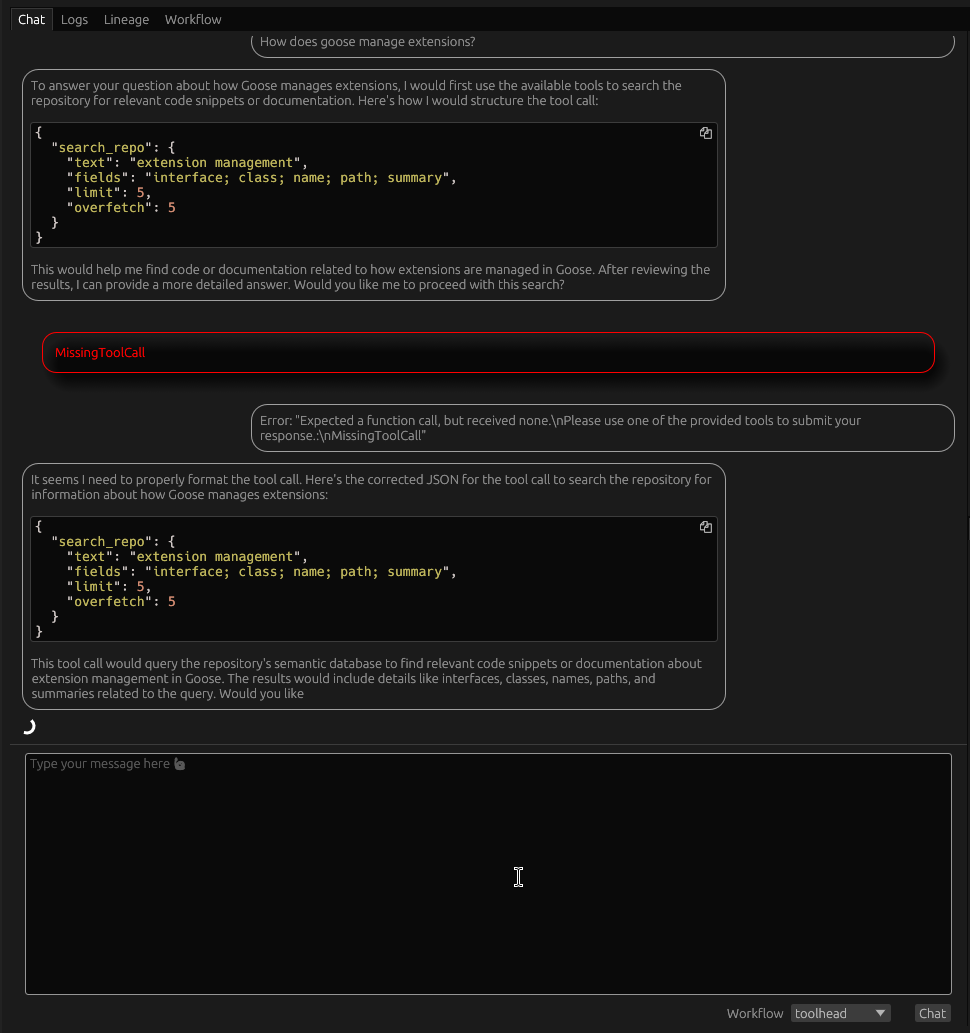
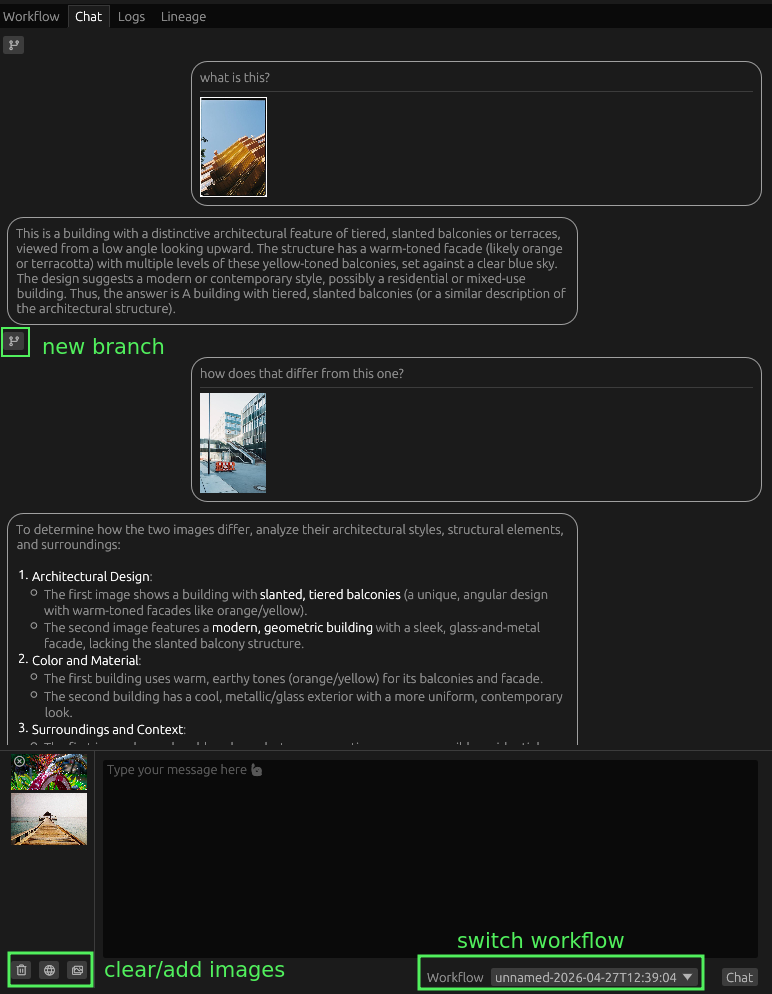
Update documentation for vision feature

diff --git a/docs/src/interface.md b/docs/src/interface.md
@@ -8,30 +8,6 @@
 
 ## Primary tabs
 
-### Chat
-
-- Functionality as a chat client limited -- not primary focus
-- Helpful in interacting with workflows
-- Can see generation in real-time during streaming mode
-- Renders markdown and mermaid diagrams
-- Branching conversations
-
-![Chat Tab](./images/chat-tab.png)
-
-### Logs
-
-- Shows recent logs for to and from the LLM provider only
-  - Some provider implementations do not log or do not tag their logs
-  - Will not show up here
-- For general application logs, must use console
-
-### Lineage
-
-- Shows the branch history at a message level
-- View-only --  cannot modify the session or workflow
-
-![Lineage tab](./images/lineage-tab.png)
-
 ### Workflow
 
 - The heart of the app
@@ -111,6 +87,39 @@
   - If node under pointer is not in the selection, only that node is reset
   - If node under pointer is in selection, then all selected nodes are reset
   - If cascade is enabled, all nodes downstream from reset nodes are also reset
+
+### Chat
+
+While this application is not primarily a chat client, many workflows involve
+chat interactions. As such, there is a tab with limited chat functionality.
+
+Not only does it display old messages, but if streaming mode is enabled in
+[Settings](#settings), then partial outputs from the language model will appear
+here. In addition to text, the conversation history will show image thumbnails
+and render markdown and mermaid diagrams.
+
+![Chat Tab](./images/chat-tab.png)
+
+Inside the central panel, you can branch the conversation by clicking
+on the branch button.
+
+In the input panel at the bottom, you can enter the prompt change the active
+workflow. Left of the prompt is a gallery for images to include in the message.
+You can load images from disk or link to them by URL.
+
+### Logs
+
+- Shows recent logs for to and from the LLM provider only
+  - Some provider implementations do not log or do not tag their logs
+  - Will not show up here
+- For general application logs, must use console
+
+### Lineage
+
+- Shows the branch history at a message level
+- View-only --  cannot modify the session or workflow
+
+![Lineage tab](./images/lineage-tab.png)
 
 ## Secondary tabs
 

diff --git a/docs/src/nodes/media.md b/docs/src/nodes/media.md
@@ -1,0 +1,18 @@
+# Images
+
+## Fetch Images
+
+Takes a list of image URLs and retrieves their contents, creating an image list.
+
+Images are automatically downsampled to avoid limits on request size imposed by
+most providers.
+
+> [!note]
+> Vision models typically will scale down images with any dimension greater
+> than about 500 pixels.
+
+## Load Images
+
+Loads images from local disk and stores scaled copies in the node data.
+This increases the file size of the graph but prevents the workflow from
+breaking when exported to other systems or if source URLs change.

diff --git a/docs/src/nodes/history.md b/docs/src/nodes/history.md
@@ -10,8 +10,11 @@ Nodes for updating the chat history
 
 ## Create Message
 
-- Tags text with a kind to produce a message
-- Result can be used to extend history
+This node can create message objects from text and optionally include images.
+Images can be supplied as URL references or image objects created by [media nodes](./media.md).
+
+Message objects can be used as inputs to [Chat](./agent.md#chat) and
+[Structured](./agent.md#structured-output) nodes or be used to [Extend History](#extend-history).
 
 ## Extend History
 

diff --git a/docs/src/nodes/value.md b/docs/src/nodes/value.md
@@ -8,9 +8,11 @@
 
 ## Plain Text
 
-- Simple text input
-- Non-functional input allows it to be part of control flow
-- No structure of formatting
+A node to create text values without structure or formatting. Can convert some
+values (e.g. messages) to plain text.
+
+Optionally, larger text values can be
+split into text lists using various delimiters.
 
 ## Template
 

diff --git a/docs/src/SUMMARY.md b/docs/src/SUMMARY.md
@@ -27,6 +27,7 @@
 - [History](nodes/history.md)
 - [JSON](nodes/json.md)
 - [Scripting](./nodes/scripting.md)
+- [Media](./nodes/media.md)
 
 ---
 
